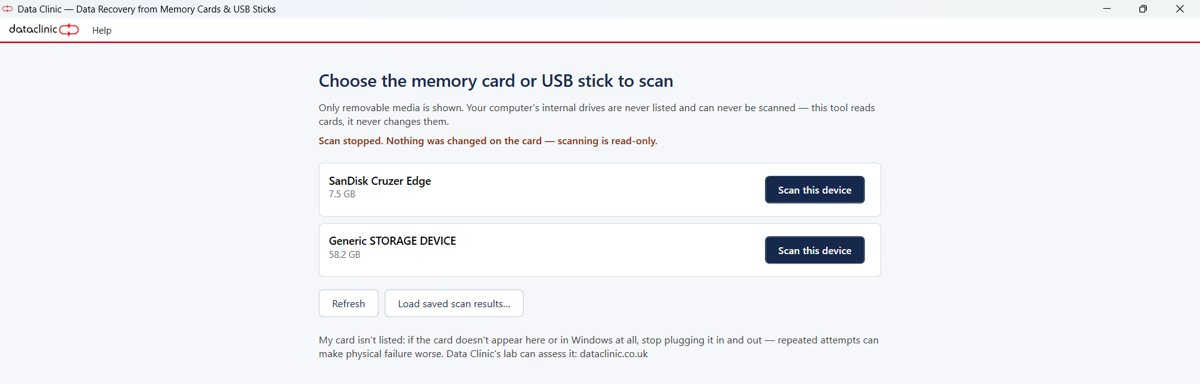
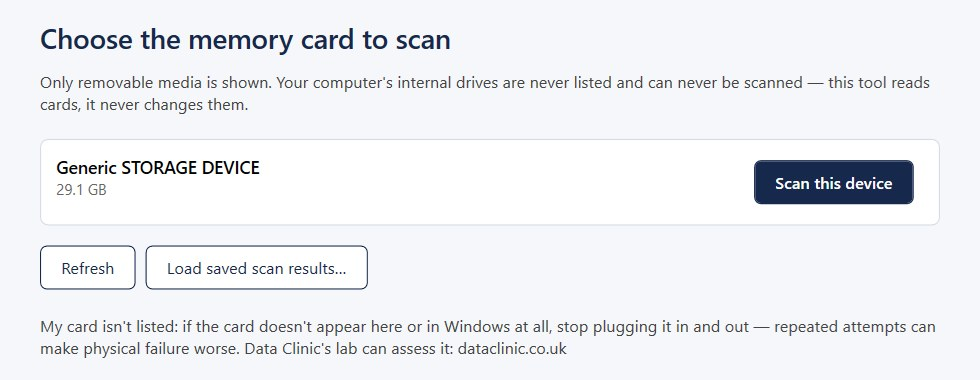
Replace memory card screenshot with 1.1.0 device picker
Claude-Session: https://claude.ai/code/session_01R4Z1nZP97Lf6bAVSaTzHFo

diff --git a/memory-card-recovery-software/index.html b/memory-card-recovery-software/index.html
@@ -42,7 +42,7 @@
 <p class="fine">Windows 10/11, 64-bit · version 1.1.0 · signed by Data Clinic Ltd</p>
 <p class="notwin" hidden>This software runs on a Windows 10 or 11 PC — not on phones, tablets or Macs. Open this page on your Windows PC to download it, or <button class="linkbtn" onclick="dcCopy(this)">copy the link</button>.</p><script>(function(){var u=navigator.userAgent;if(!/Windows/i.test(u)){document.querySelectorAll(".notwin").forEach(e=>e.hidden=false)}})();function dcCopy(b){try{navigator.clipboard.writeText(location.href);b.textContent="link copied"}catch(e){}}</script>
 </div>
-<div class="shot"><img src="/img/mc-device-picker.jpg" alt="The memory card tool only lists removable cards" width="925" height="511" fetchpriority="high"></div>
+<div class="shot"><img src="/img/mc-device-picker.jpg" alt="Choose the memory card to scan: the tool lists only removable cards and never changes them" width="980" height="380" fetchpriority="high"></div>
 </div></section>
 <div class="trust"><div class="wrap"><span>100% free</span><span>No registration</span><span>Strictly read-only</span><span>Every photo checked for damage</span></div></div>
 

diff --git a/index.html b/index.html
@@ -49,7 +49,7 @@
 <a class="prod" href="/hard-drive-recovery-software/"><img src="/img/hdd-01-drive-picker.jpg" alt="" width="925" height="511" loading="lazy">
 <div><h3>Recovery for Hard Drives</h3><p>Hard drives, SSDs and USB memory sticks — deleted files, formatted drives, RAW drives and Mac drives on Windows. Ask Rex AI built in.</p>
 <span class="pill">Free scan · licences from £39.99</span></div></a>
-<a class="prod" href="/memory-card-recovery-software/"><img src="/img/mc-device-picker.jpg" alt="" width="925" height="511" loading="lazy">
+<a class="prod" href="/memory-card-recovery-software/"><img src="/img/mc-device-picker.jpg" alt="" width="980" height="380" loading="lazy" style="object-fit:contain;background:#f5f7fa">
 <div><h3>Recovery for Memory Cards</h3><p>SD and microSD cards from cameras, drones and phones — deleted and formatted photos and videos.</p>
 <span class="pill free">Completely free</span></div></a>
 </div>

diff --git a/_build/pages.py b/_build/pages.py
@@ -60,7 +60,7 @@ HOME = page("/", "Data Recovery Software for Windows — See Your Files Before Y
 <a class="prod" href="/hard-drive-recovery-software/"><img src="/img/hdd-01-drive-picker.jpg" alt="" width="925" height="511" loading="lazy">
 <div><h3>Recovery for Hard Drives</h3><p>Hard drives, SSDs and USB memory sticks — deleted files, formatted drives, RAW drives and Mac drives on Windows. Ask Rex AI built in.</p>
 <span class="pill">Free scan · licences from £39.99</span></div></a>
-<a class="prod" href="/memory-card-recovery-software/"><img src="/img/mc-device-picker.jpg" alt="" width="925" height="511" loading="lazy">
+<a class="prod" href="/memory-card-recovery-software/"><img src="/img/mc-device-picker.jpg" alt="" width="980" height="380" loading="lazy" style="object-fit:contain;background:#f5f7fa">
 <div><h3>Recovery for Memory Cards</h3><p>SD and microSD cards from cameras, drones and phones — deleted and formatted photos and videos.</p>
 <span class="pill free">Completely free</span></div></a>
 </div>
@@ -257,7 +257,7 @@ CARD_PAGE = page("/memory-card-recovery-software/", "Free Memory Card & SD Card 
 <p class="fine">Windows 10/11, 64-bit · version {CARD['version']} · signed by Data Clinic Ltd</p>
 {NOT_WINDOWS}
 </div>
-<div class="shot"><img src="/img/mc-device-picker.jpg" alt="The memory card tool only lists removable cards" width="925" height="511" fetchpriority="high"></div>
+<div class="shot"><img src="/img/mc-device-picker.jpg" alt="Choose the memory card to scan: the tool lists only removable cards and never changes them" width="980" height="380" fetchpriority="high"></div>
 </div></section>
 <div class="trust"><div class="wrap"><span>100% free</span><span>No registration</span><span>Strictly read-only</span><span>Every photo checked for damage</span></div></div>
 
